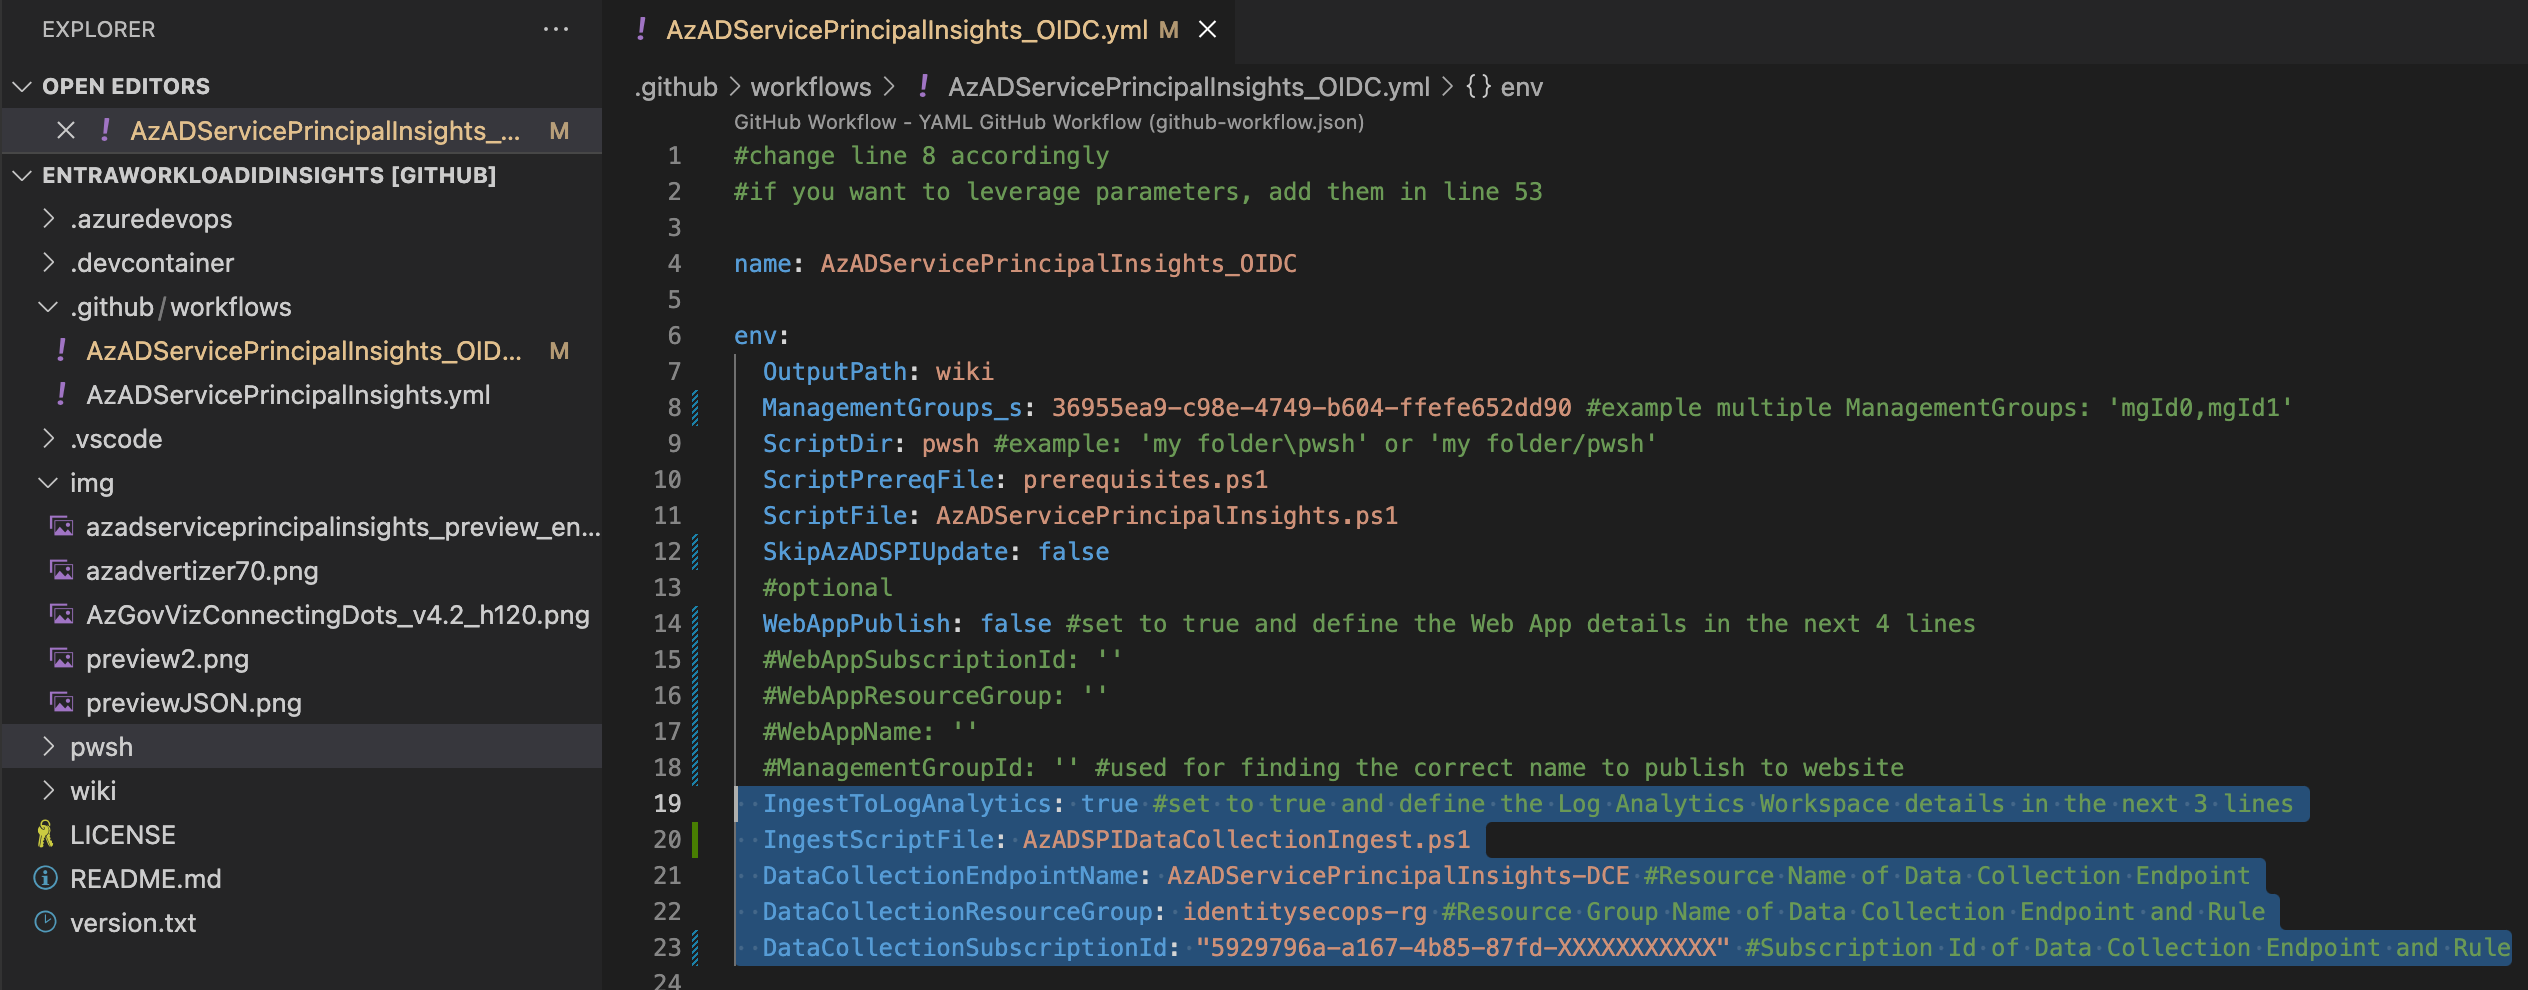
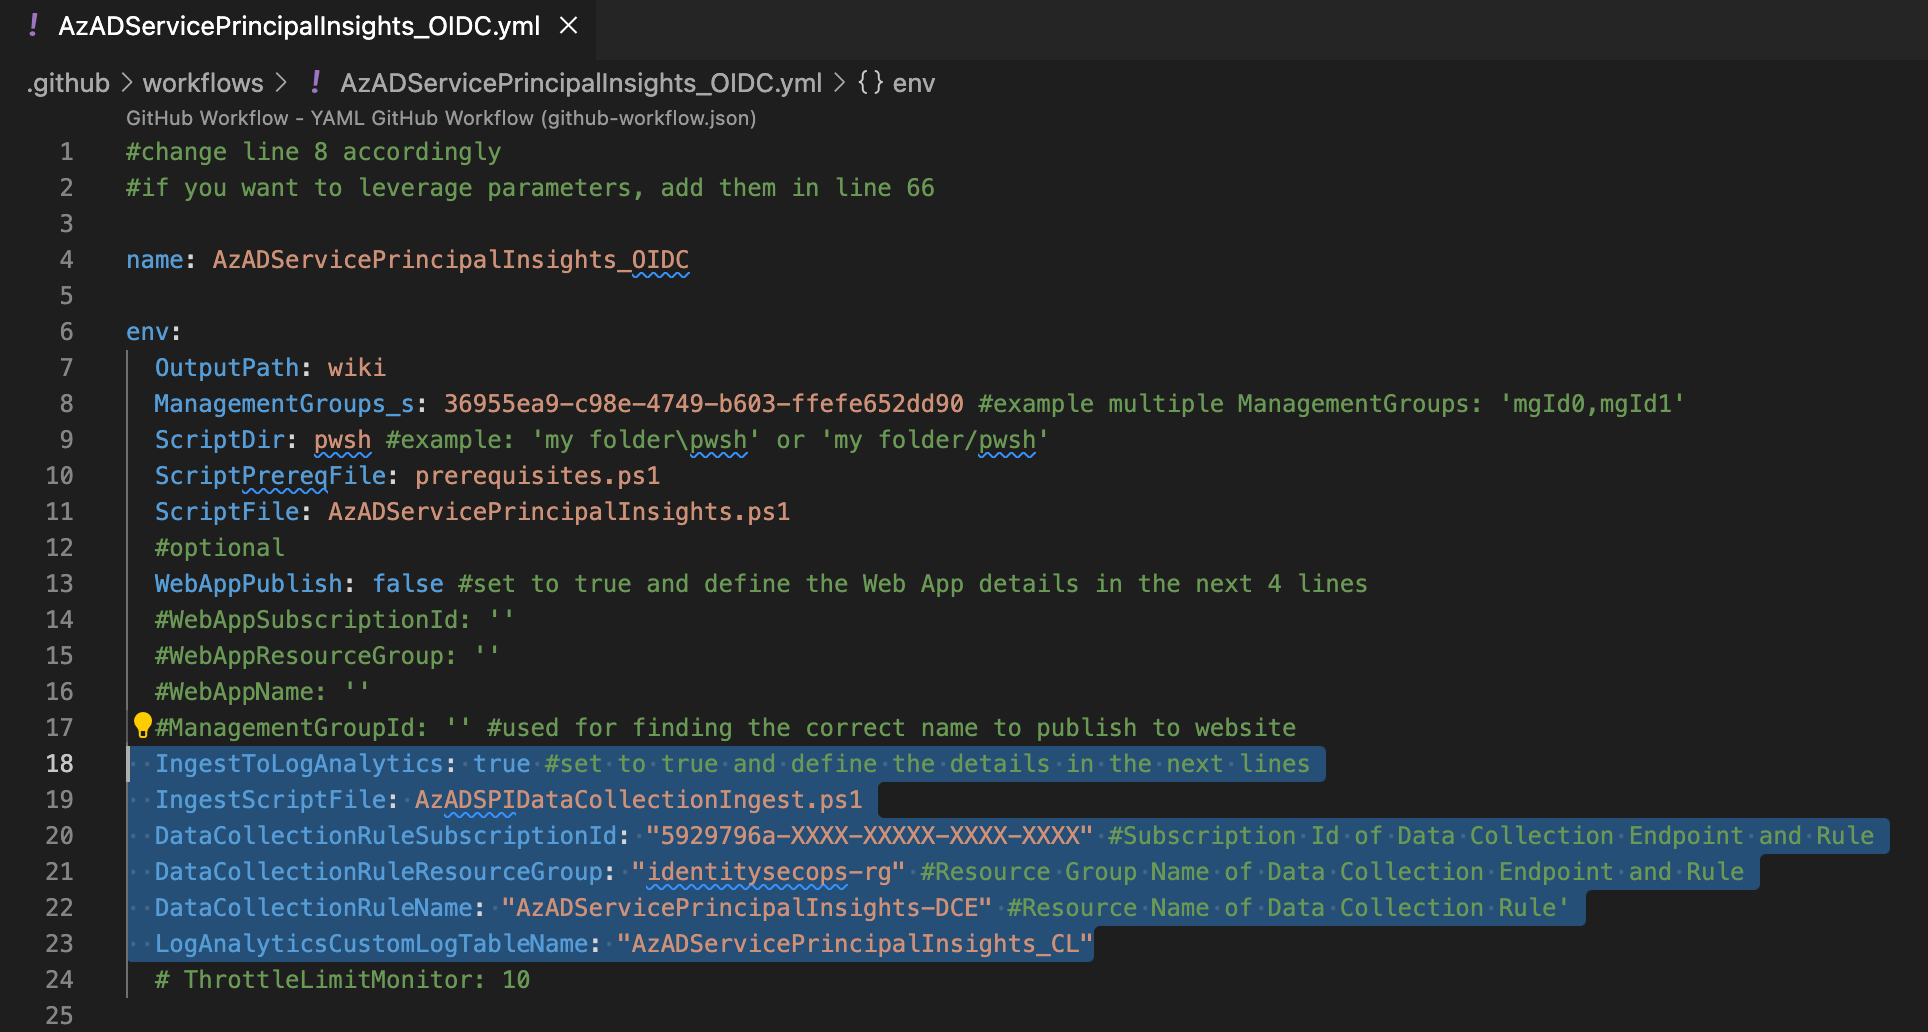
Updated blog post

Changed region(s): [[0.0, 0.0, 0.9959, 1.0]]

diff --git a/_posts/2023-12-18-entra-workload-id-advanced-detection-enrichment.md b/_posts/2023-12-18-entra-workload-id-advanced-detection-enrichment.md
@@ -32,9 +32,11 @@ This blog post is part of a series about Microsoft Entra Workload ID:
 
 In the first part of the blog post, I’ve already described "[AzADServicePrincipalInsights](https://github.com/JulianHayward/AzADServicePrincipalInsights)" (AzADSPI) from [Julian Hayward](https://github.com/JulianHayward). The tool allows to collect richfull insights and tracking changes of Workload Identities and export them as JSON in a repository. But we can use also the data to ingest them to Microsoft Sentinel for enrichment. Therefore, I’ve created a pipeline which ingest the data to a Microsoft Sentinel Workspace by using PowerShell scripts.
 
+_[**Update 2024-02-10**]: Option to ingest data to Log Analytics has been integrated to AzADSPI. Julian has also improved my previous script logic and has become part of the solution. I've updated the instruction to use the original repository instead of my forked version._
+
 ### Executing AzADServicePrincipalInsights in your GitHub repo
 
-1. First of all, create a private project/repository with the name "AzADServicePrincipalInsights" in GitHub and clone the forked version of AzADSPI from my repository [Cloud-Architekt/AzADServicePrincipalInsights](https://github.com/Cloud-Architekt/AzADServicePrincipalInsights). This repository includes the PowerShell script and workflow extensions to ingest the output to Microsoft Sentinel.
+1. First of all, create a private project/repository with the name "AzADServicePrincipalInsights" in GitHub and clone the forked version of AzADSPI from the repository [JulianHayward/AzADServicePrincipalInsights](https://github.com/JulianHayward/AzADServicePrincipalInsights). This repository includes also the PowerShell script and workflow extensions to ingest the output to Microsoft Sentinel.
 2. Create an app registration and add the [required permission](https://github.com/JulianHayward/AzADServicePrincipalInsights/tree/main#permissions) as Application Permission and Azure RBAC assignment. You can also create a user-assigned managed identity but in that case the Graph API permissions needs to be configured by API or PowerShell.
 
     ![Untitled]({{ site.url }}{{ site.baseurl }}/assets/images/2023-12-18-workload-id-advanced-detection-enrichment/workloadidadvdetect0.png)
@@ -71,14 +73,15 @@ Use the pre-created Service Principal or Managed Identity (with Federated Creden
 ### **Implement Pipeline to ingest data to Microsoft Sentinel**
 
 1. Next, go back to the workflow file "AzADServicePrincipalInsights_OIDC.yaml" for changing variable of `IngestToLogAnalytics` to `true` and editing the following variables with the corresponding values of your environment:
-    - `DataCollectionEndpointName`
-    - `DataCollectionResourceGroup`
-    - `DataCollectionSubscriptionId`
+    - `DataCollectionRuleSubscriptionId`
+    - `DataCollectionRuleResourceGroup`
+    - `DataCollectionRuleName`
+    - `LogAnalyticsCustomLogTableName` (e.g., AzADServicePrincipalInsights_CL.)
 
         ![Untitled]({{ site.url }}{{ site.baseurl }}/assets/images/2023-12-18-workload-id-advanced-detection-enrichment/workloadidadvdetect4.png)
 
-2. Copy the PowerShell Script "[AzADSPI_DataCollectionIngest.ps1](https://github.com/Cloud-Architekt/AzurePrivilegedIAM/blob/WiBlogPost/Scripts/AzADSPI/AzADSPI_DataCollectionIngest.ps1)" from my repository to the "pwsh" folder of the repository.
-3. Run the workflow and wait for 10-15 minutes to verify if the data has been successfully ingested. Check if any event entry exists on table `AzADServicePrincipalInsights_CL.`
+2. The logic for ingest the data to Log Analytics is defined in the PowerShell script "AzADSPI/AzADSPI_DataCollectionIngest.ps1" in the folder "pwsh". There's no further customizing needed by default.
+3. Run the workflow and wait for 10-15 minutes to verify if the data has been successfully ingested. Check if any event entry exists on the defined table name (e.g. `AzADServicePrincipalInsights_CL`).
 4. I’ve created a template for a KQL function with the name "AzADSPI" which will standardize the column names to my defined and preferred schema. This also supports me in sharing the same KQL query logic across other data sources that I’m using in my examples and detection queries. Follow the steps from Microsoft Learn article to [create and use functions in Microsoft Sentinel.](https://learn.microsoft.com/en-us/azure/azure-monitor/logs/functions#use-a-function)
 
     ![Untitled]({{ site.url }}{{ site.baseurl }}/assets/images/2023-12-18-workload-id-advanced-detection-enrichment/workloadidadvdetect5.png)
